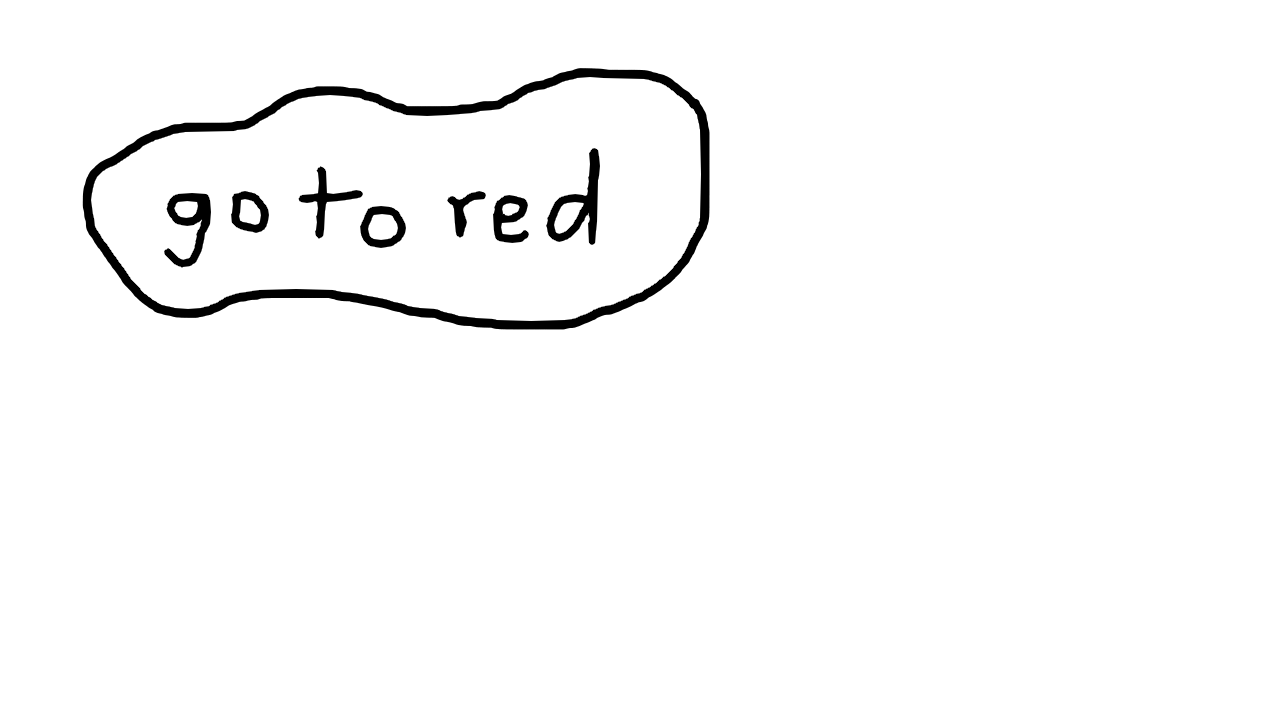
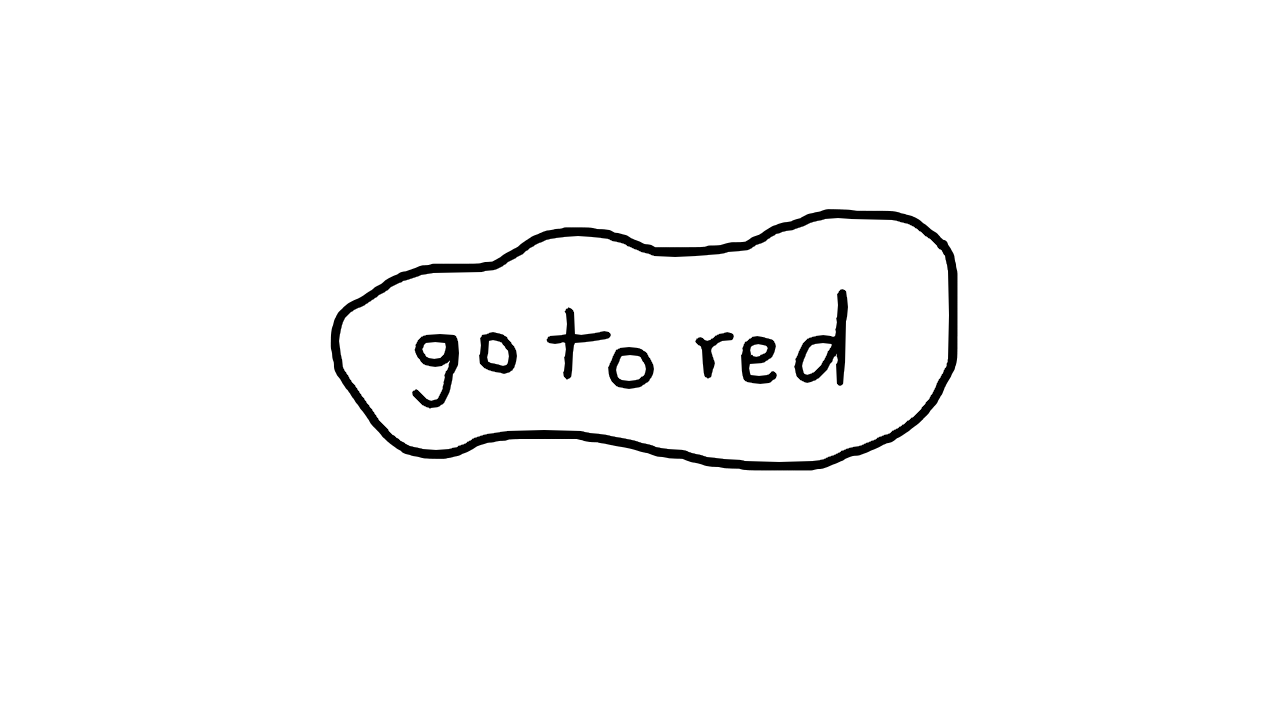
X

diff --git a/docs/index.js b/docs/index.js
@@ -32,15 +32,38 @@ fullscreen_touch.stops(fullscreen_loop);
 splash_fullscreen_touch.starts(s_tick, g.request_fullscreen);
 splash_windowed_touch.starts(s_tick, start_fullscreen);
 fullscreen_touch.starts(s_tick, g.request_fullscreen);
-function start_splash() {
+function start_splash(...start_set) {
 	if (g.fullscreen_enabled()) {
 		splash_loop.start();
 		splash_fullscreen_touch.start();
 		splash_windowed_touch.start();
+		start_set.forEach(o => {
+			splash_fullscreen_touch.starts(o);
+			splash_windowed_touch.starts(o);	
+		});
+	} else {
+		start_set.forEach(o => o.start());
 	}
 }
 
 //#endregion
+
+const exit_loop_frames    = g.frames([i_exit]);
+const exit_opening_frames = g.frames([i_exit_2, i_exit_1]);
+const exit_closing_frames = g.frames([i_exit_1, i_exit_2]);
+
+const exit_loop        = g.loop(exit_loop_frames, 10);
+
+const exit_opening     = g.once(exit_opening_frames, 10);
+const exit_closing     = g.once(exit_closing_frames, 10);
+
+const exit_touch       = g.touch(g.rect(0, 0, 222, 126));
+
+exit_closing.starts(() => window.location.assign('home.html'));
+
+exit_touch.stops(exit_loop);
+
+exit_touch.starts(s_blop, exit_closing);
 
 const red_loop_frames        = g.frames([i_red]);
 const red_opening_frames     = g.frames([i_red_2, i_red_1]);
@@ -51,11 +74,7 @@ const red_loop        = g.loop(red_loop_frames, 10);
 const red_opening     = g.once(red_opening_frames, 10);
 const red_closing     = g.once(red_closing_frames, 10);
 
-const red_touch       = g.touch(g.rect(100, 100, 700, 325));
-
-const touches = () => {
-	red_touch.start();
-};
+const red_touch       = g.touch(g.rect(340, 230, 933, 453));
 
 red_closing.starts(() => window.location.replace('red/'));
 
@@ -63,8 +82,11 @@ red_touch.stops(red_loop);
 
 red_touch.starts(s_blop, red_closing);
 
+const touches = () => {
+	exit_touch.start();
+	red_touch.start();
+};
+
 window.addEventListener('load', e => {
-	start_splash();
-	red_loop.start();
-	touches();
+	start_splash(exit_loop, red_loop, touches);
 });

diff --git a/docs/index.html b/docs/index.html
@@ -37,6 +37,9 @@
 	<img id="i_red"        src="images/red.png"        />
 	<img id="i_red_1"      src="images/red_1.png"      />
 	<img id="i_red_2"      src="images/red_2.png"      />
+	<img id="i_exit"       src="images/exit.png"       />
+	<img id="i_exit_1"     src="images/exit_1.png"     />
+	<img id="i_exit_2"     src="images/exit_2.png"     />
 
 	<audio id="s_thud"  src="sounds/thud.mp3"  preload="auto"></audio>
 	<audio id="s_click" src="sounds/click.mp3" preload="auto"></audio>

diff --git a/docs/home.html b/docs/home.html
@@ -1,0 +1,1 @@
+<a href="index.html">canvas app example</a>
